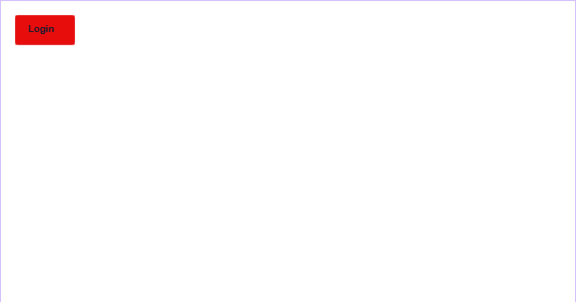
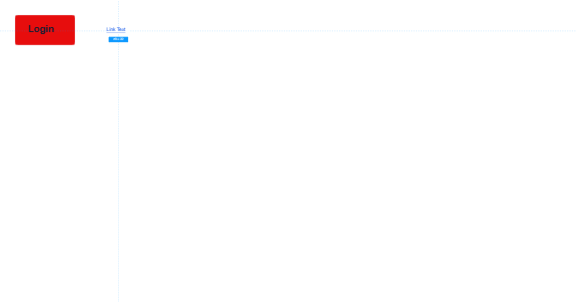
login

Changed region(s): [[0.0, 0.0, 1.0, 0.0298], [0.1875, 0.0894, 0.25, 0.149]]

diff --git a/src/pages/login/login.board.tsx b/src/pages/login/login.board.tsx
@@ -6,6 +6,7 @@ const Login = () => {
     <div className="page-container">
       <div className="el-409111846a38"></div>
       <h1 className="el-89bbd7e04198">Login</h1>
+      <a href="#" className="el-555f601c4222">Link Text</a>
     </div>
   );
 };

diff --git a/src/pages/login/login.css b/src/pages/login/login.css
@@ -112,3 +112,13 @@ a {
   font-weight: bold;
   color: #1a1a2e;
 }
+
+.el-555f601c4222 {
+  position: absolute;
+  left: 355px;
+  top: 92px;
+  margin: 0px 0px 0px 0px;
+  font-size: 16px;
+  color: #2563eb;
+  text-decoration: underline;
+}
